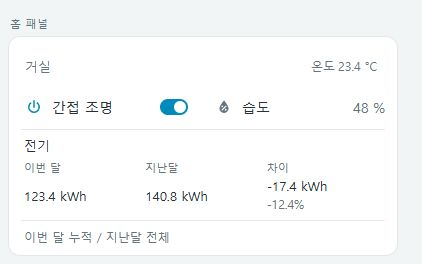
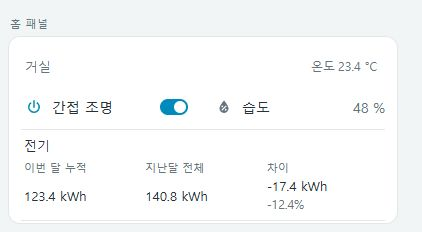
Refresh card and editor screenshots after UX review fixes

diff --git a/docs/ux-refinements.md b/docs/ux-refinements.md
@@ -15,11 +15,19 @@
 - **홈 패널:** 비교 숫자 옆에 `이번 달 누적 / 지난달 전체`를 표시합니다. 반복 설명 행을 없애 더 작게 구성합니다. 두 기간의 차이를 같은 기간 대비 절감으로 해석하지 않아야 합니다.
 - **환경:** 숫자는 중간에서 나누지 않고 단위를 더 작게 표시합니다. 지역화된 숫자 구분 문자를 보존하며 자동 배치는 실제 값의 너비에 맞춰 열 수를 조절합니다. 강제로 지정한 열 수는 유지하므로 긴 값에는 `columns: auto`를 권장합니다.
 
+![조명 색온도와 직접 제어](../images/compact-light-row.jpg)
+
+![커튼의 작은 조작 레이블](../images/compact-cover-row.jpg)
+
 ## 조작 흐름 유지
 
 - **미디어:** 음소거 상태를 아이콘과 문구로 표시합니다. 지원 기기는 같은 음량 아이콘 위치에서 해제할 수 있습니다. 음량 조절만 전송 중일 때 재생/일시정지·다음 곡은 계속 사용할 수 있습니다. 음소거만 지원하는 기기는 기존 재생 조작 행에 버튼을 배치하여 빈 음량 행을 만들지 않습니다.
 - **장면:** 여러 항목을 연속 실행해도 항목별 전달 성공·실패를 잠시 유지합니다. 성공은 요청 전달을 뜻하며 실제 장치 동작 완료를 의미하지 않습니다.
 - **슬라이더:** 요청 중 포커스를 유지하고 중복 입력만 막습니다. Tab으로 다른 조작부로 이동할 수 있으며 요청이 끝나도 사용자가 이동한 포커스를 되돌리지 않습니다. 연결 불가 상태는 실제 비활성화를 적용합니다.
+
+![음소거 상태와 직접 해제](../images/compact-media-muted.jpg)
+
+![320px 긴 숫자 배치](../images/compact-environment-long.jpg)
 
 ## 설정 과정의 불필요한 동작 줄이기
 

diff --git a/images/README.md b/images/README.md
@@ -1,6 +1,6 @@
 # Representative card images
 
-These JPEG screenshots were captured from `examples/preview.html` in a Chromium browser at a 390px card width. They render the actual card JavaScript using mocked HA states and minimal local `ha-card`/`ha-icon` primitives. They are representative previews, not live Home Assistant device verification. Regenerate after changing the card layout. `overview.jpg` shows all seven cards; `visual-editor.jpg` shows the fallback UI editing flow.
+These JPEG screenshots were captured from `examples/preview.html` in a Chromium browser at a 390px card width. They render the actual card JavaScript using mocked HA states and minimal local `ha-card`/`ha-icon` primitives. They are representative previews, not live Home Assistant device verification. Regenerate after changing the card layout. `overview.jpg` shows all seven cards; `visual-editor.jpg` shows the fallback UI editing flow. `compact-media-muted.jpg` and `compact-environment-long.jpg` cover muted playback and a long numeric reading at 320px.
 
 Run `python -m http.server 8129 --bind 127.0.0.1` in the repository root and open `/examples/preview.html`. `?card=compact-light-row` (or any of the seven registered types) selects one card for capture. Add `&capture=true` to hide preview chrome. A 422px browser viewport leaves room for the 390px card and screenshot margins. Width, theme, and offline controls expose review states. The preview sends no real device commands.
 

diff --git a/docs/compact-media-row.md b/docs/compact-media-row.md
@@ -37,6 +37,8 @@ show_next: true
 
 음량 드래그와 키보드 조절 중에는 외부 상태 갱신이 편집 값을 덮어쓰지 않습니다. 전송 후 요청 값은 최대 3초 동안 유지되어 기기 보고 지연에 따른 튀는 현상을 줄입니다. 실패하면 알림과 실제 상태로 돌아옵니다. 음량·음소거와 재생 조작은 각각 중복 요청을 막습니다. 음량 요청을 기다리는 중에도 일시정지·다음 곡을 조작할 수 있습니다. 음소거 중에는 상태 문구와 아이콘으로 알리며 음소거 제어를 지원하지 않아도 상태를 표시합니다. `show_volume: false`는 음량 행 전체를 숨기지만 상태 문구의 음소거 표시는 유지합니다.
 
+![음소거 상태 예시](../images/compact-media-muted.jpg)
+
 ## 더 작은 구성
 
 ```yaml

diff --git a/docs/compact-environment-panel.md b/docs/compact-environment-panel.md
@@ -82,6 +82,8 @@ items:
 - 임계값은 표시 상태에만 사용됩니다. 자동화·알림 전송·기기 제어를 실행하거나 과거 데이터를 조회하지 않습니다.
 - 버튼 높이는 최소 44px이며 키보드 포커스와 동작 줄이기 설정을 지원합니다.
 
+![320px에서 긴 숫자를 유지하는 예시](../images/compact-environment-long.jpg)
+
 ## English
 
 Use `custom:compact-environment-panel` with a nonempty `items` list of numeric `sensor.*` entities. Items accept optional `name`, `icon`, and `thresholds`. The panel accepts optional title `name` and `columns: auto` (default) or 1–4. Automatic cells favor compact readings and hide decorative icons at widths of 360px or less.
